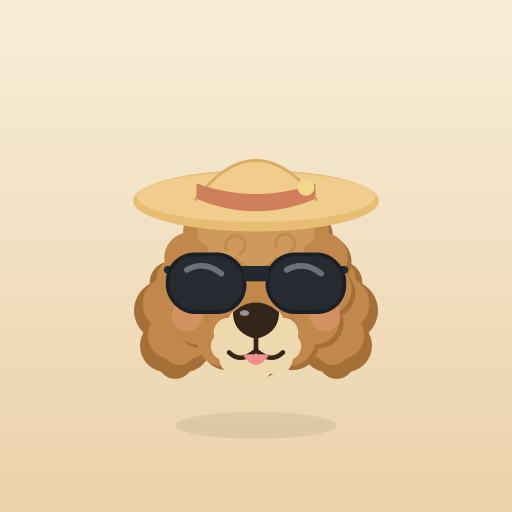
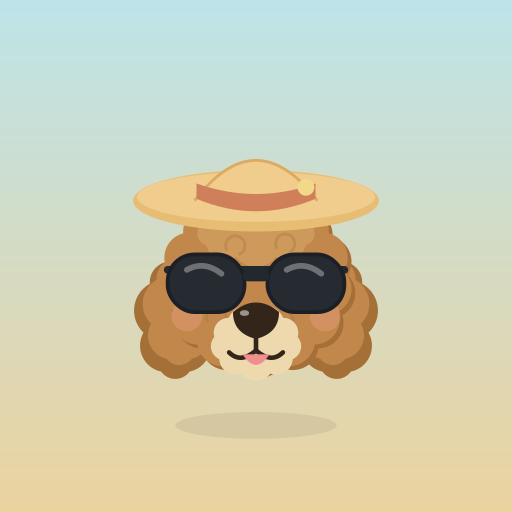
Strand-palette + animeret parasol-scene med hav og bølger
- Skifter fra varm creme tilbage til en beachy palette (turkis hav + sand)
  for en bedre strandferie-stemning: baggrund, hero, knapper, temafarve, ikoner
- Tilføjer animeret strand-scene under headeren: hvalp der chiller under en
  parasol med hav, bølger, sol og en drink (parasol vipper, hvalp vugger,
  sol pulserer, bølger driver)

Claude-Session: https://claude.ai/code/session_01SXHKkzE7Wiq4wmZVvCX5oT

diff --git a/ferie-kalender/index.html b/ferie-kalender/index.html
@@ -5,7 +5,7 @@
 <meta name="viewport" content="width=device-width, initial-scale=1.0, viewport-fit=cover" />
 <title>Vores ferie · Korfu 🇬🇷</title>
 <link rel="manifest" href="manifest.webmanifest" />
-<meta name="theme-color" content="#cf8a52" />
+<meta name="theme-color" content="#1aa0b5" />
 <meta name="apple-mobile-web-app-capable" content="yes" />
 <meta name="apple-mobile-web-app-status-bar-style" content="default" />
 <meta name="apple-mobile-web-app-title" content="Ferie" />
@@ -19,17 +19,17 @@
 <script src="https://www.gstatic.com/firebasejs/10.12.2/firebase-firestore-compat.js"></script>
 <style>
   :root{
-    --bg:#f4ead6;        /* varm creme */
-    --paper:#fffdf6;     /* varm elfenben */
-    --ink:#473a2b;       /* varm mørkebrun */
-    --muted:#a08c72;     /* varm taupe */
-    --line:#ece0c9;      /* varm linje */
-    --sea:#cf8a52;       /* varm karamel (hovedaccent) */
-    --sea-dark:#b06d39;
-    --olive:#9a8a52;
-    --sun:#e0a64a;       /* blød amber */
-    --terracotta:#c5694a;
-    --shadow:0 8px 26px rgba(96,72,42,.10);
+    --bg:#eef1ec;        /* lys, luftig strand */
+    --paper:#fffdf8;
+    --ink:#22414b;       /* dyb havblågrøn */
+    --muted:#7f9298;
+    --line:#e4e2d6;
+    --sea:#1aa0b5;       /* turkis hav (hovedaccent) */
+    --sea-dark:#137a8c;
+    --olive:#7d8c62;
+    --sun:#eaa53f;       /* sol/sand-accent */
+    --terracotta:#cf6f4a;
+    --shadow:0 8px 26px rgba(25,60,70,.10);
     --radius:18px;
     /* personfarver – overskrives af opsætning */
     --pA:#1d9bb8;
@@ -51,7 +51,7 @@
   body::before{
     content:"";position:fixed;inset:0;z-index:-1;pointer-events:none;
     background:
-      linear-gradient(180deg, rgba(244,234,214,.74) 0%, rgba(242,231,209,.84) 100%),
+      linear-gradient(180deg, rgba(238,241,236,.76) 0%, rgba(234,238,232,.86) 100%),
       url('bg-montage.jpg') center center / cover no-repeat;
   }
   .serif{font-family:"Fraunces","Georgia",serif}
@@ -60,7 +60,7 @@
   /* ── Header ──────────────────────────────────────────── */
   header.hero{
     background:
-      linear-gradient(105deg, rgba(203,135,80,.93) 0%, rgba(196,128,74,.82) 52%, rgba(168,103,55,.74) 100%),
+      linear-gradient(105deg, rgba(26,160,181,.92) 0%, rgba(23,148,168,.82) 52%, rgba(19,122,140,.74) 100%),
       url('hero-bg.jpg') center 35%/cover no-repeat,
       var(--sea-dark);
     color:#fff;border-radius:24px;padding:28px 30px;
@@ -80,7 +80,9 @@
   .sync-pill.err .led{background:#f87171}
   .hero h1{margin:0;font-size:33px;letter-spacing:.2px;font-weight:600;padding-right:90px;line-height:1.12}
   .hero .sub{opacity:.92;margin-top:4px;font-size:15px}
-  .countdown{display:flex;gap:10px;margin-top:18px;flex-wrap:wrap;padding-right:92px}
+  .countdown{display:flex;gap:10px;margin-top:18px;flex-wrap:wrap}
+  .beach-scene{display:block;width:100%;max-width:400px;height:auto;margin:14px auto 2px;
+    filter:drop-shadow(0 6px 14px rgba(25,60,70,.12))}
   .cd-box{background:rgba(255,255,255,.16);backdrop-filter:blur(4px);border-radius:12px;
     padding:10px 16px;text-align:center;min-width:74px}
   .cd-box b{display:block;font-size:26px;line-height:1.1}
@@ -299,8 +301,9 @@
     <h1 id="tripTitle">Vores ferie på Korfu</h1>
     <div class="sub" id="tripSub">Sol, hav og hinanden 🇬🇷</div>
     <div class="countdown" id="countdown"></div>
-    <img class="hero-puppy" src="puppy.svg" alt="Lille feriehvalp" />
   </header>
+
+  <img class="beach-scene" src="puppy-scene.svg" alt="Hvalp der chiller under en parasol på stranden" />
 
   <div class="polaroids">
     <div class="polaroid" onclick="openLightbox('foto-1.jpg')">
@@ -373,7 +376,7 @@
     <a href="#" onclick="document.getElementById('importFile').click();return false">Importér</a> ·
     <a href="#" onclick="resetAll();return false">Nulstil</a>
     <input type="file" id="importFile" accept="application/json" style="display:none" onchange="importData(event)">
-    <div class="ver">version 30</div>
+    <div class="ver">version 31</div>
   </footer>
 </div>
 

diff --git a/ferie-kalender/sw.js b/ferie-kalender/sw.js
@@ -1,6 +1,6 @@
 /* Service worker – gør appen installerbar og brugbar offline.
    App-skallen caches; Firebase/netværkskald får altid lov at gå til nettet. */
-const CACHE = "korfu-ferie-v30";
+const CACHE = "korfu-ferie-v31";
 const ASSETS = [
   "./",
   "./index.html",
@@ -11,6 +11,7 @@ const ASSETS = [
   "./hero-bg.jpg",
   "./bg-montage.jpg",
   "./puppy.svg",
+  "./puppy-scene.svg",
   "./foto-1.jpg",
   "./foto-2.jpg",
   "./foto-3.jpg",
